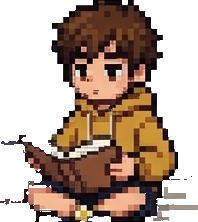
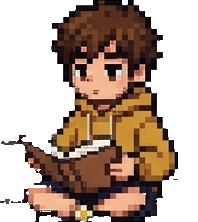
zombie-train: fixes from the phone recording
- Window durability icon: use a shield (the window emoji showed as a box)
- Glass cracks drawn as faint 3px pixel steps instead of smooth white lines
- Remove leftover grey marks next to the sitting boy
- Skip the hidden night layer in daylight (the front view is recomputed
  every frame), cutting per-frame work
- Firewood button only when fuel is fully out and the train has stopped
- One-time alert banner, beep and vibration when hunger, warmth, health
  or fuel drops low; re-arms after recovery

Claude-Session: https://claude.ai/code/session_01WDUR3ebv7agtEkisuKHP2J

Changed region(s): [[0.7576, 0.8378, 1.0, 1.0], [0.1212, 0.8108, 0.1818, 0.8378]]

diff --git a/zombie-train/index.html b/zombie-train/index.html
@@ -116,7 +116,7 @@
       <div class="bar" id="bHealth" style="--c:#e04a5a"><span class="lb">❤ 체력</span><span class="v"></span><i><b></b></i></div>
       <div class="bar" id="bMood" style="--c:#b49af0"><span class="lb">😺 기분</span><span class="v"></span><i><b></b></i></div>
     </div>
-    <div id="res"><span id="cFood">🥫 <b></b></span><span id="cFuel">🪵 <b></b></span><span id="cScrap">🔩 <b></b></span><span id="cMeds">💊 <b></b></span><span id="cWin">🪟 <b></b></span></div>
+    <div id="res"><span id="cFood">🥫 <b></b></span><span id="cFuel">🪵 <b></b></span><span id="cScrap">🔩 <b></b></span><span id="cMeds">💊 <b></b></span><span id="cWin">🛡 <b></b></span></div>
   </div>
   <div id="banner" class="hide sh"></div>
   <div id="acts">
@@ -142,7 +142,7 @@
 </script>
 <script type="module">
 import * as L from './logic.js?v=1';
-import { BG, IMG, SIGN, loadImages, drawScene, frontToBg } from './scene.js?v=3';
+import { BG, IMG, SIGN, loadImages, drawScene, frontToBg } from './scene.js?v=4';
 
 const $ = (id) => document.getElementById(id);
 const save = L.loadSave(localStorage);
@@ -199,6 +199,7 @@ const sfx = {
   woof() { tone(420, 0.12, { type: 'sawtooth', vol: 0.04, to: 300 }); tone(460, 0.14, { type: 'sawtooth', vol: 0.04, to: 320, delay: 0.18 }); },
   eat() { [0, 0.15, 0.3].forEach((d) => noise(0.06, { vol: 0.05, from: 1800, to: 600, delay: d })); },
   click() { tone(520, 0.05, { type: 'square', vol: 0.025 }); },
+  alert() { tone(880, 0.12, { type: 'square', vol: 0.03 }); tone(660, 0.16, { type: 'square', vol: 0.03, delay: 0.14 }); },
   buy() { [660, 880, 1320].forEach((f, i) => tone(f, 0.12, { type: 'square', vol: 0.025, delay: i * 0.07 })); },
   chime() { [784, 659, 523].forEach((f, i) => tone(f, 0.45, { type: 'triangle', vol: 0.05, delay: i * 0.3 })); },
   crackle() { noise(0.03, { vol: 0.03, from: 3000, to: 1500 }); },
@@ -208,7 +209,7 @@ const sfx = {
 const buzz = (p) => { if (save.vibrate && navigator.vibrate) try { navigator.vibrate(p); } catch { /* 없음 */ } };
 
 // ---------- 상태(화면 전용) ----------
-const view = { dogPetT: 0, scroll: 0, t: 0, zVariant: 0, zHit: 0, eatT: 0, petT: 0, nap: 0, blink: 0, floats: [], hearts: [], shake: 0, clackT: 0, bangT: 0, crackT: 0, lastZombie: null, warned: -1 };
+const view = { dogPetT: 0, scroll: 0, t: 0, zVariant: 0, zHit: 0, eatT: 0, petT: 0, nap: 0, blink: 0, floats: [], hearts: [], shake: 0, clackT: 0, bangT: 0, crackT: 0, lastZombie: null, warned: -1, alerts: {} };
 function banner(text, red = false, ms = 2200) {
   const b = $('banner');
   b.textContent = text; b.className = `sh${red ? ' red' : ''}`;
@@ -325,7 +326,7 @@ function updateUI() {
   $('aStove').classList.toggle('hot', save.stoveOn && save.fuel > 0);
   $('aRepair').disabled = save.scrap < L.REPAIR_COST || save.barricade >= L.barricadeMax(save);
   $('aHeal').disabled = save.meds < 1 || save.health >= 100;
-  const fo = save.fuel < 1;
+  const fo = save.fuel <= 0;   // 연료가 완전히 떨어져 멈췄을 때만
   $('aForage').hidden = !fo;
   const key = L.UPGRADES.map((u) => `${save.up[u.id]}:${save.scrap >= L.upgradeCost(save, u.id)}`).join(',');
   if (key !== upsKey) { upsKey = key; $('upDot').hidden = !L.UPGRADES.some((u) => save.scrap >= L.upgradeCost(save, u.id)); if (tab === 'ups') openTab('ups'); }
@@ -507,6 +508,11 @@ function frame(now) {
     }
     const h = L.hourOf(save);
     if (save.up.radio && L.hordeNight(save) && h >= 16 && h < 20 && view.warned !== L.dayOf(save)) { view.warned = L.dayOf(save); banner('📻 오늘 밤 좀비 떼 경보! 창문을 고쳐 두세요', true, 3500); }
+    // 위험 알림: 기준 아래로 떨어질 때 한 번(회복하면 다시 알림)
+    for (const [key, v, low, ok, msg] of [['hunger', save.hunger, 20, 35, `🍖 ${BOY}가 배고파요! 밥을 먹여 주세요`], ['warmth', save.warmth, 25, 40, '🥶 너무 추워요! 난로를 켜 주세요'], ['health', save.health, 30, 45, '❤ 체력이 위험해요! 약을 먹이거나 쉬게 해 주세요'], ['fuel', save.fuel, 1, 2, '🪵 연료가 거의 없어요! 다음 역에서 구해야 해요']]) {
+      if (v < low && !view.alerts[key]) { view.alerts[key] = true; banner(msg, true, 3200); buzz([60, 40, 60]); sfx.alert(); }
+      else if (v > ok) view.alerts[key] = false;
+    }
     const moving = save.fuel > 0 && !save.station && !save.arrived;
     if (moving) { view.scroll += (12 + L.speedKmh(save) * 1.1) * dt; view.clackT -= dt; if (view.clackT <= 0) { view.clackT = 1.1 - Math.min(0.5, L.speedKmh(save) / 80); sfx.clack(); } }
     if (save.zombie && save.zombie.t > L.ZOMBIE_APPROACH) { view.bangT -= dt; if (view.bangT <= 0) { view.bangT = 0.9; sfx.bang(); view.shake = Math.max(view.shake, 0.25); } }
@@ -524,7 +530,7 @@ function frame(now) {
 }
 updateUI();
 window.zombieReady = true;
-loadImages(2).then(() => {
+loadImages(3).then(() => {
   last = performance.now();
   if (save.station) onStation(); else if (save.dead) onDead(); else if (save.arrived) onArrive(); else if (!save.seenIntro) intro();
   requestAnimationFrame(frame);

diff --git a/zombie-train/scene.js b/zombie-train/scene.js
@@ -106,8 +106,9 @@ export function drawScene(g, o) {
   const fx0 = vpx - FV.vx * fm, fy0 = vpy - FV.vy * fm;
   const moving = !o.station && o.speed > 0, phase = ((o.scroll / 17) % 1 + 1) % 1;
   const layer = (name, a) => { if (!IMG[name] || a <= 0.01) return; g.globalAlpha = a; g.drawImage(frontView(name, phase, moving), fx0, fy0, FW, FW); g.globalAlpha = 1; };
-  if (o.station) { layer('front_station_night', 1); layer('front_station', dl); }
-  else { layer('front_night', 1); layer('front_day', dl); layer('front_dusk', dusk); }
+  // 위에 덮이는 그림이 완전히 불투명하면 아래 그림은 건너뛴다(창밖은 매 프레임 다시 계산해서 무겁다)
+  if (o.station) { if (dl < 0.99) layer('front_station_night', 1); layer('front_station', dl); }
+  else { if (dl < 0.99) layer('front_night', 1); layer('front_day', dl); layer('front_dusk', dusk); }
   if (o.rain) {
     g.strokeStyle = dl > 0.5 ? 'rgba(220,226,232,0.55)' : 'rgba(150,170,200,0.5)'; g.lineWidth = 1.2; g.beginPath();
     for (let i = 0; i < 46; i++) { const x = W.x + ((i * 53.7 + o.t * 60) % W.w), y = W.y + ((i * 97.3 + o.t * 420) % W.h); g.moveTo(x, y); g.lineTo(x - 4, y - 12); }
@@ -129,17 +130,27 @@ export function drawScene(g, o) {
   // 유리 반사, 금, 철판
   g.fillStyle = 'rgba(255,255,255,0.07)';
   g.beginPath(); g.moveTo(W.x + 20, W.y + W.h); g.lineTo(W.x + 70, W.y); g.lineTo(W.x + 95, W.y); g.lineTo(W.x + 45, W.y + W.h); g.fill();
-  const cracks = o.barricade >= 0.95 ? 0 : Math.ceil((1 - o.barricade) * 7);
+  // 유리 금: 배경 그림의 픽셀 크기(약 3)에 맞춘 각진 점선, 창밖이 비쳐 보이게 옅게
+  const cracks = o.barricade >= 0.95 ? 0 : Math.ceil((1 - o.barricade) * 6);
   if (cracks) {
-    g.strokeStyle = 'rgba(235,242,246,0.85)'; g.lineWidth = 1.6;
+    const PX = 3, dots = new Set();
+    const seg = (x0, y0, x1, y1) => {
+      const n = Math.ceil(Math.hypot(x1 - x0, y1 - y0) / PX);
+      for (let i = 0; i <= n; i++) dots.add(`${Math.round((x0 + (x1 - x0) * i / n) / PX)},${Math.round((y0 + (y1 - y0) * i / n) / PX)}`);
+    };
     const ox = W.x + W.w * 0.6, oy = W.y + W.h * 0.42;
     for (let i = 0; i < cracks; i++) {
       let x = ox, y = oy; const a = i * 2.39 + 0.4;
-      g.beginPath(); g.moveTo(x, y);
-      for (let s = 0; s < 4; s++) { x += Math.cos(a + Math.sin(i * 7 + s) * 0.5) * W.w * 0.11; y += Math.sin(a + Math.cos(i * 5 + s) * 0.5) * W.h * 0.1; g.lineTo(x, y); }
-      g.stroke();
+      for (let k = 0; k < 4; k++) {
+        const nx = x + Math.cos(a + Math.sin(i * 7 + k) * 0.5) * W.w * 0.085, ny = y + Math.sin(a + Math.cos(i * 5 + k) * 0.5) * W.h * 0.08;
+        seg(x, y, nx, ny); x = nx; y = ny;
+      }
     }
-    if (o.barricade <= 0) { g.beginPath(); g.ellipse(ox, oy, W.w * 0.15, W.h * 0.13, 0, 0, Math.PI * 2); g.stroke(); }
+    if (o.barricade <= 0) for (let k = 0; k < 24; k++) { const t0 = (k / 24) * Math.PI * 2, t1 = ((k + 1) / 24) * Math.PI * 2; seg(ox + Math.cos(t0) * W.w * 0.13, oy + Math.sin(t0) * W.h * 0.11, ox + Math.cos(t1) * W.w * 0.13, oy + Math.sin(t1) * W.h * 0.11); }
+    g.fillStyle = 'rgba(20,26,32,0.28)';
+    for (const d of dots) { const [px, py] = d.split(',').map(Number); g.fillRect(px * PX + 1, py * PX + 1, PX, PX); }
+    g.fillStyle = 'rgba(226,236,240,0.55)';
+    for (const d of dots) { const [px, py] = d.split(',').map(Number); g.fillRect(px * PX, py * PX, PX, PX); }
   }
   const plate = (x, y, w, h) => {
     g.fillStyle = '#5c5a58'; g.fillRect(x, y, w, h);
